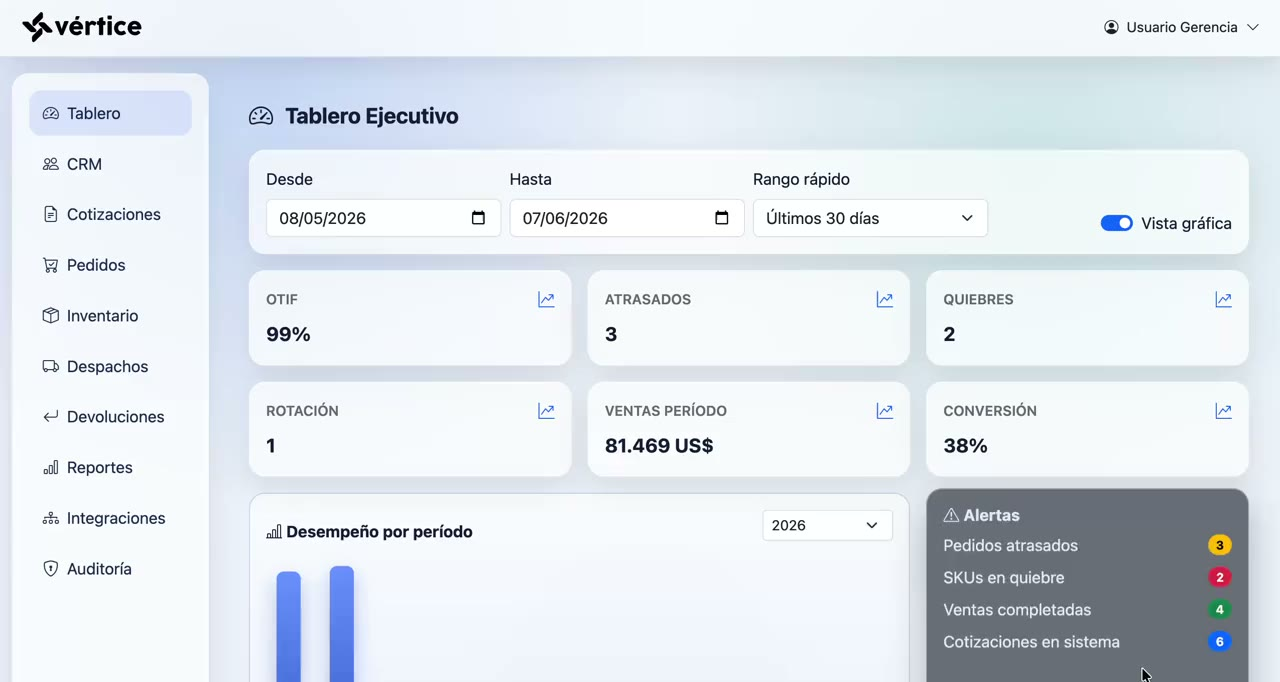
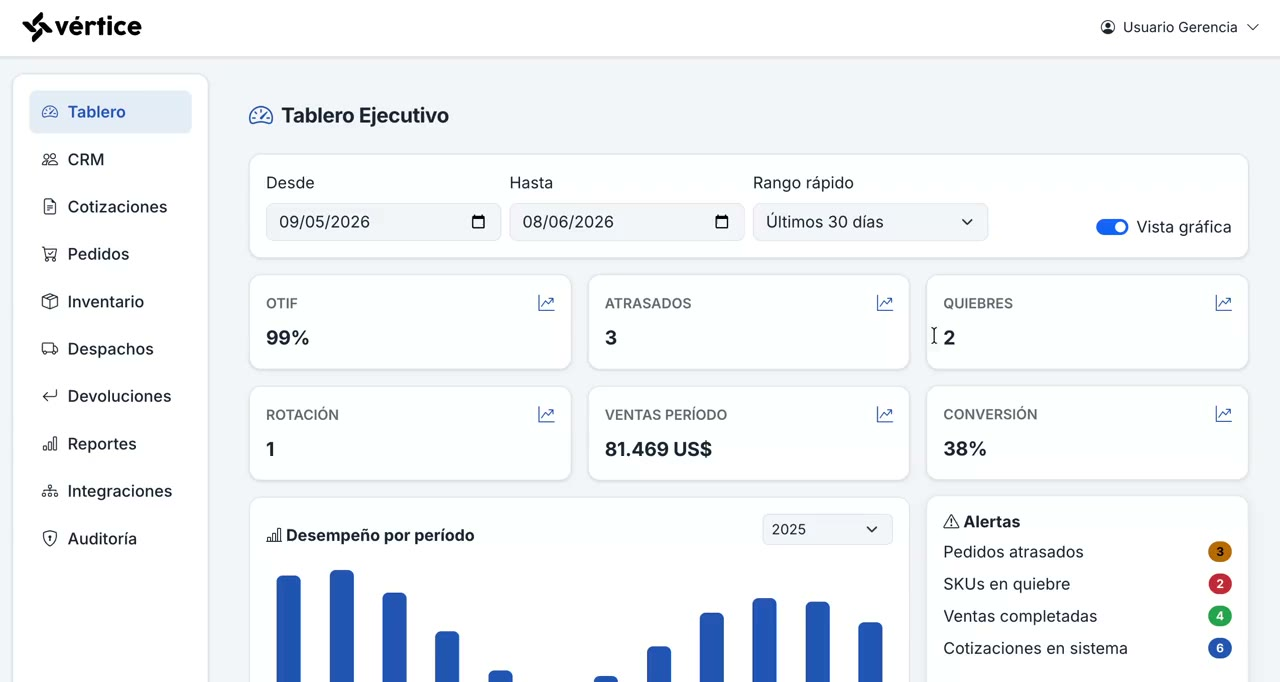
feat(software): nuevo video de Vértice + demos del viewcases clicables
- Nuevo clip de Vértice: se usa en el viewcases (Vértice Seguridad Industrial) y en el tab Automatiza.
- Los 4 tiles del viewcases enlazan a sus demos reales (dental, tornos, punto cero, vértice) con target=_blank.

diff --git a/src/app/app.routes.ts b/src/app/app.routes.ts
@@ -238,10 +238,10 @@ const softwarePageEs: LandingData = {
     intro:
       'Cada demo es una versión funcional de un sistema a medida, pensada para que recorras la operación completa de una industria distinta. Vas a sentir lo simple y rápido que puede ser un software diseñado específicamente para cómo trabajas.',
     items: [
-      { label: 'Estudio Dental Mendieta', category: 'Software de gestión clínica', videoSrc: '/media/software/dental.mp4', poster: '/media/software/dental.jpg', link: '#' },
-      { label: 'Tornos del Sur', category: 'ERP industrial', videoSrc: '/media/software/tornos.mp4', poster: '/media/software/tornos.jpg', link: '#' },
-      { label: 'Punto Cero', category: 'Sistema de mantenimiento por suscripción', videoSrc: '/media/software/puntocero.mp4', poster: '/media/software/puntocero.jpg', link: '#' },
-      { label: 'Vértice Seguridad Industrial', category: 'ERP para empresa de servicios', videoSrc: '/media/software/vertice.mp4', poster: '/media/software/vertice.jpg', link: '#' }
+      { label: 'Estudio Dental Mendieta', category: 'Software de gestión clínica', videoSrc: '/media/software/dental.mp4', poster: '/media/software/dental.jpg', link: 'https://happy-coast-044ea7e0f.7.azurestaticapps.net/agenda' },
+      { label: 'Tornos del Sur', category: 'ERP industrial', videoSrc: '/media/software/tornos.mp4', poster: '/media/software/tornos.jpg', link: 'https://app-tornosops.azurewebsites.net/dashboard' },
+      { label: 'Punto Cero', category: 'Sistema de mantenimiento por suscripción', videoSrc: '/media/software/puntocero.mp4', poster: '/media/software/puntocero.jpg', link: 'https://victorious-desert-032f8750f.1.azurestaticapps.net/' },
+      { label: 'Vértice Seguridad Industrial', category: 'ERP para empresa de servicios', videoSrc: '/media/software/vertice.mp4', poster: '/media/software/vertice.jpg', link: 'https://icy-meadow-07f007e0f.6.azurestaticapps.net/dashboard/home' }
     ]
   },
   faq: {
@@ -453,10 +453,10 @@ const softwarePageEn: LandingData = {
     intro:
       "Each demo is a working version of a custom system, built for you to walk through the full operation of a different industry. You'll feel how simple and fast software designed specifically for the way you work can be.",
     items: [
-      { label: 'Estudio Dental Mendieta', category: 'Clinic management software', videoSrc: '/media/software/dental.mp4', poster: '/media/software/dental.jpg', link: '#' },
-      { label: 'Tornos del Sur', category: 'Industrial ERP', videoSrc: '/media/software/tornos.mp4', poster: '/media/software/tornos.jpg', link: '#' },
-      { label: 'Punto Cero', category: 'Subscription-based maintenance system', videoSrc: '/media/software/puntocero.mp4', poster: '/media/software/puntocero.jpg', link: '#' },
-      { label: 'Vértice Seguridad Industrial', category: 'ERP for a services company', videoSrc: '/media/software/vertice.mp4', poster: '/media/software/vertice.jpg', link: '#' }
+      { label: 'Estudio Dental Mendieta', category: 'Clinic management software', videoSrc: '/media/software/dental.mp4', poster: '/media/software/dental.jpg', link: 'https://happy-coast-044ea7e0f.7.azurestaticapps.net/agenda' },
+      { label: 'Tornos del Sur', category: 'Industrial ERP', videoSrc: '/media/software/tornos.mp4', poster: '/media/software/tornos.jpg', link: 'https://app-tornosops.azurewebsites.net/dashboard' },
+      { label: 'Punto Cero', category: 'Subscription-based maintenance system', videoSrc: '/media/software/puntocero.mp4', poster: '/media/software/puntocero.jpg', link: 'https://victorious-desert-032f8750f.1.azurestaticapps.net/' },
+      { label: 'Vértice Seguridad Industrial', category: 'ERP for a services company', videoSrc: '/media/software/vertice.mp4', poster: '/media/software/vertice.jpg', link: 'https://icy-meadow-07f007e0f.6.azurestaticapps.net/dashboard/home' }
     ]
   },
   faq: {

diff --git a/src/app/components/viewcases.component.ts b/src/app/components/viewcases.component.ts
@@ -50,6 +50,8 @@ export type Viewcase = {
             <a
               class="vc-tile"
               [href]="item.link"
+              target="_blank"
+              rel="noopener noreferrer"
               (mouseenter)="play($event)"
               (mouseleave)="stop($event)"
             >